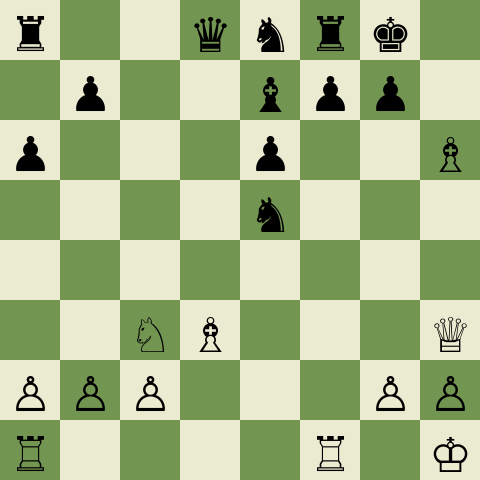
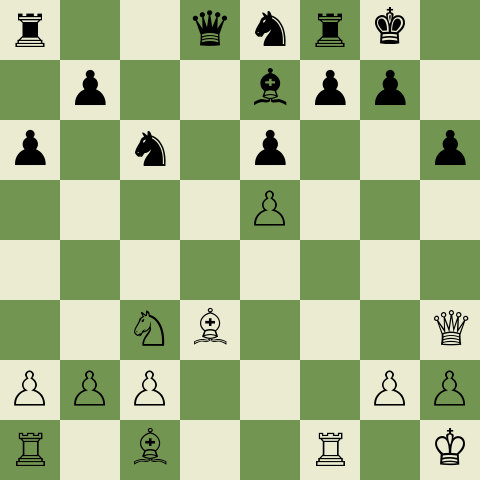
Auto: brilliant move update

diff --git a/_posts/2025-08-24-brilliant.md b/_posts/2025-08-24-brilliant.md
@@ -4,7 +4,7 @@ date: 2025-08-24
 layout: post
 ---
 
-[ibottledo vs marcuskayo](https://www.chess.com/analysis/game/live/142259919860?move=32&tab=review)
+[ibottledo vs marcuskayo](https://www.chess.com/analysis/game/live/142259919860?move=30&tab=review)
 
 ## White to move
 
@@ -16,5 +16,5 @@ layout: post
 
 .
 
-**Brilliant Move:** 17. Bxg7!!
+**Brilliant Move:** 16. Bxh6!!
 

diff --git a/index.md b/index.md
@@ -385,6 +385,13 @@ ibottledo vs marcuskayo <span style="color:#FFFFFF">17. Bxg7</span>
 
 ---
 
+## 🗓 2025-08-24.
+ibottledo vs marcuskayo <span style="color:#FFFFFF">16. Bxh6</span>
+
+[→ 탁월수 보기](_posts/2025-08-24-brilliant.md)
+
+---
+
 ## 🗓 2025-08-27.
 ibottledo vs Ichsan440 <span style="color:#FFFFFF">7. Bxf7+</span>
 
